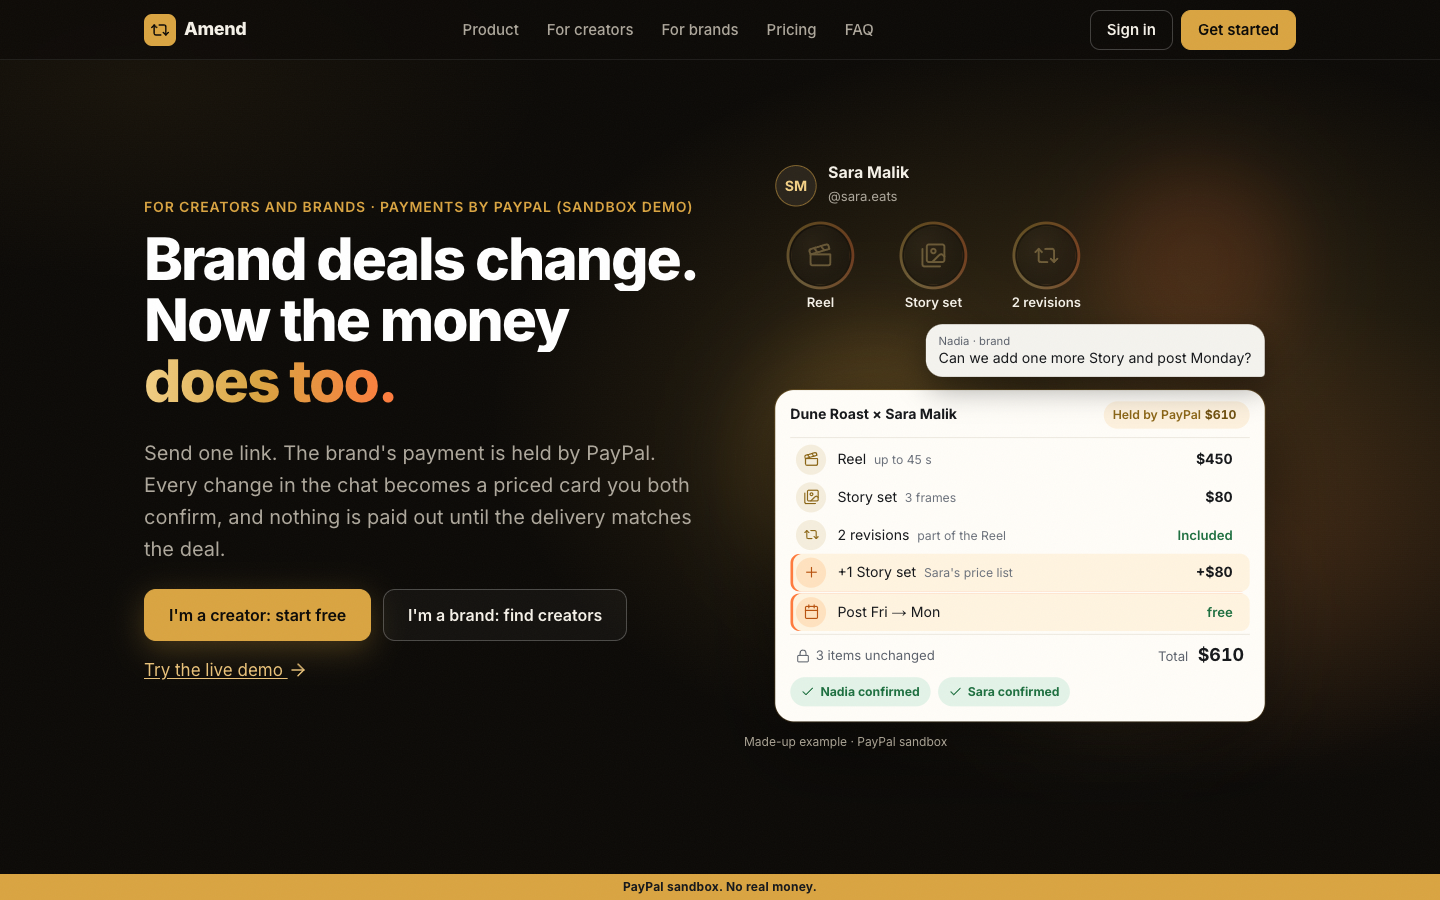
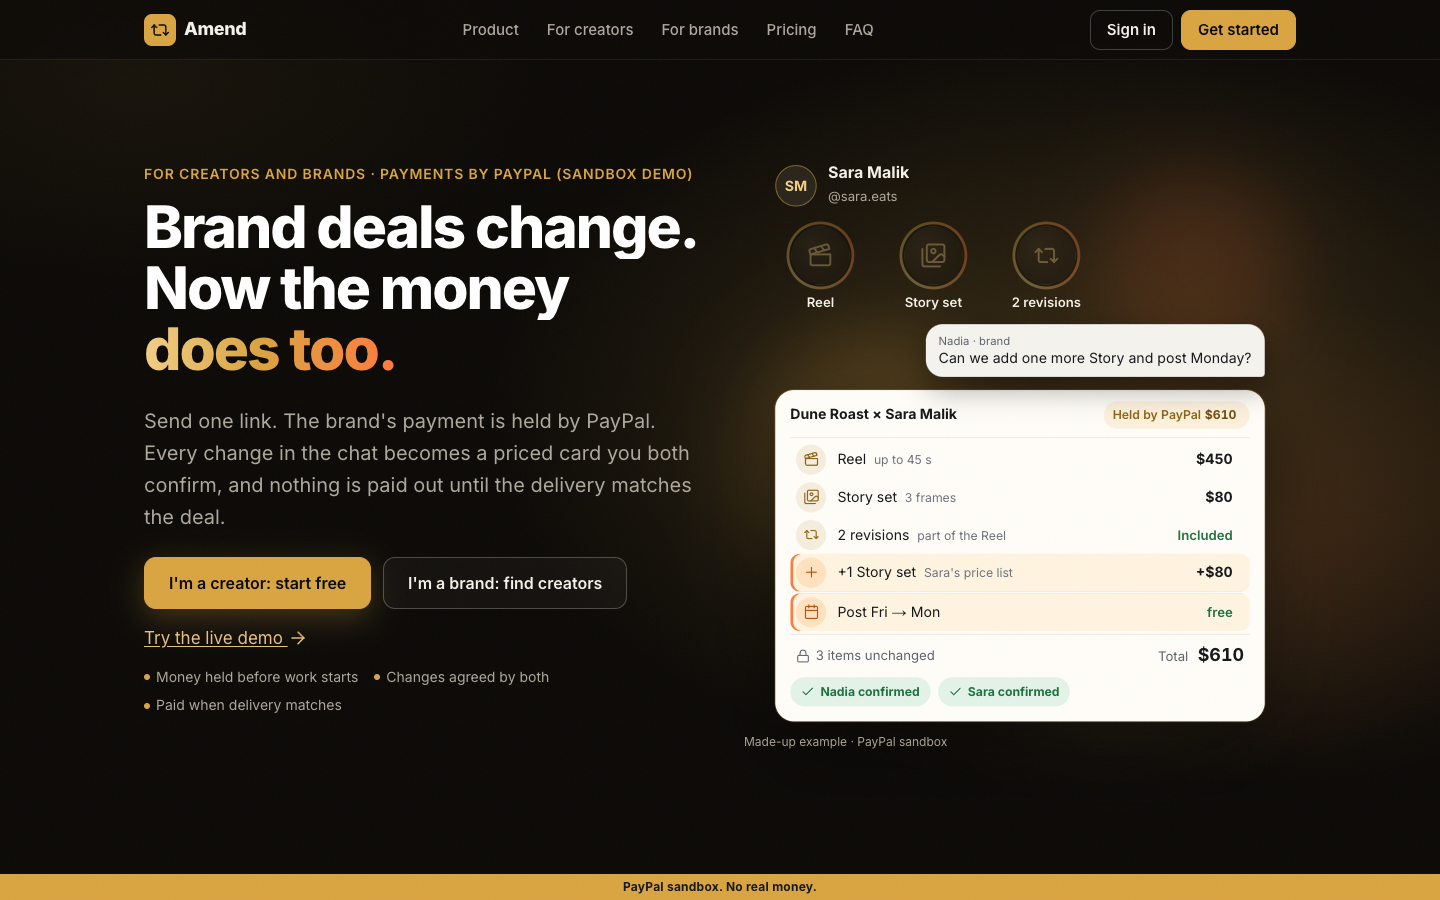
Step 3: marketing copy from checked sources; proof row under the hero
Digiday (28 Jan 2026) line on payment terms and 120-day-late payments, with Amend's answer.
Stat cards re-checked against their sources: '30-90 days' reworded to payment terms; the third card
claimed more than InfluenceFlow says, now '2 rounds' (the usual revision limit). Hero layout tests pass.

Changed region(s): [[0.0938, 0.1867, 0.5, 0.8089], [0.2812, 0.7467, 0.375, 0.7778]]

diff --git a/web/index.html b/web/index.html
@@ -34,6 +34,7 @@
           <a class="btn lg magnetic" href="/creators">I'm a brand: find creators</a>
         </div>
         <p class="try-link"><a href="/try">Try the live demo <i data-lucide="arrow-right" aria-hidden="true"></i></a></p>
+        <ul class="proof-row" aria-label="How Amend protects both sides"><li>Money held before work starts</li><li>Changes agreed by both</li><li>Paid when delivery matches</li></ul>
       </div>
       <div class="scene" id="demo" role="img" aria-label="Animated example: Sara's prices fly into a deal card, $530 is held by PayPal, the brand asks for one more Story and post Monday, both confirm, and the held money becomes $610">
         <div class="stage-fit"><div class="stage" aria-hidden="true">
@@ -106,11 +107,14 @@
       <div class="grid3" style="margin-top:32px">
         <div class="statcard"><div class="big">48%</div><p>of creators were paid late in a year.</p>
           <a class="small" href="https://www.lumanu.com/blog/insights-from-500-influencers-on-their-payment-experience" target="_blank" rel="noopener">Source: Lumanu, survey of 500+ creators</a></div>
-        <div class="statcard"><div class="big">30–90 days</div><p>is a common wait for payment after the work is done.</p>
+        <div class="statcard"><div class="big">30–90 days</div><p>are the usual payment terms after the work is done.</p>
           <a class="small" href="https://infmap.com/blog/why-creators-get-paid-late-and-what-it-costs-brands" target="_blank" rel="noopener">Source: Infmap, why creators get paid late</a></div>
-        <div class="statcard"><div class="big" style="font-size:28px">Extra revisions and new scenes</div><p>get asked for after the price is set, and often go unpaid.</p>
+        <div class="statcard"><div class="big">2 rounds</div><p>is the usual revision limit, set to stop scope creep. Amend counts them and prices any extra from the creator's list.</p>
           <a class="small" href="https://influenceflow.io/resources/influencer-content-approval-workflows-the-complete-2026-guide/" target="_blank" rel="noopener">Source: InfluenceFlow, content approval workflows</a></div>
       </div>
+      <p class="problem-quote">Brands usually pay creators 30 days after a campaign goes live, terms are stretching to 45 and 60 days, and agencies report some payments arriving 120 days late.
+        <a href="https://digiday.com/future-of-tv/future-of-tv-briefing-the-creators-economys-very-loud-dirty-little-secret-of-brands-late-delayed-payments/" target="_blank" rel="noopener">Digiday, Jan 2026</a></p>
+      <p class="problem-answer"><b>Amend's answer:</b> PayPal holds the brand's money before work starts.</p>
     </div>
   </section>
 

diff --git a/web/static/cinema.css b/web/static/cinema.css
@@ -197,3 +197,10 @@ html.js-anim .scene .sc-tot { visibility: hidden; }
 /* the change is pending until both confirm: total stays $530 with a note; the pill then says what PayPal holds */
 .sc-pend { margin-right: 10px; font-size: 12px; font-weight: 700; color: #B8520E; background: #FFE9CC; border-radius: 99px; padding: 2px 8px; opacity: 0; }
 .pl-req { color: #B8520E; }
+/* proof row under the hero buttons (no stats, just what Amend does) */
+.cine-hero .proof-row { list-style: none; padding: 0; margin: 14px 0 0; display: flex; flex-wrap: wrap; gap: 6px 16px; font-size: 14px; color: var(--cine-muted); }
+.cine-hero .proof-row li { display: inline-flex; align-items: center; gap: 6px; }
+.cine-hero .proof-row li::before { content: ""; width: 6px; height: 6px; border-radius: 50%; background: var(--gold, #D9A441); flex: none; }
+#problem .problem-quote { margin: 28px 0 0; max-width: 760px; font-size: 17px; line-height: 1.55; }
+#problem .problem-quote a { white-space: nowrap; }
+#problem .problem-answer { margin: 10px 0 0; font-size: 17px; }
